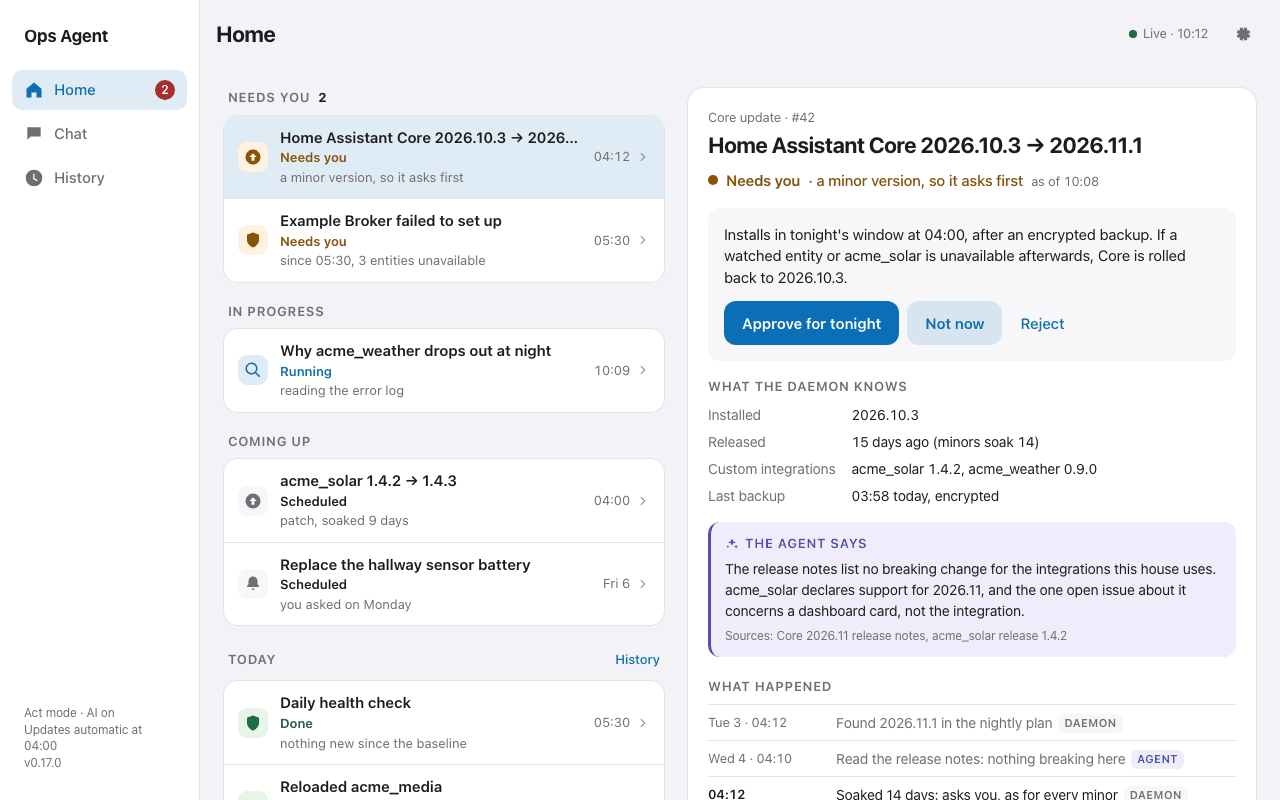
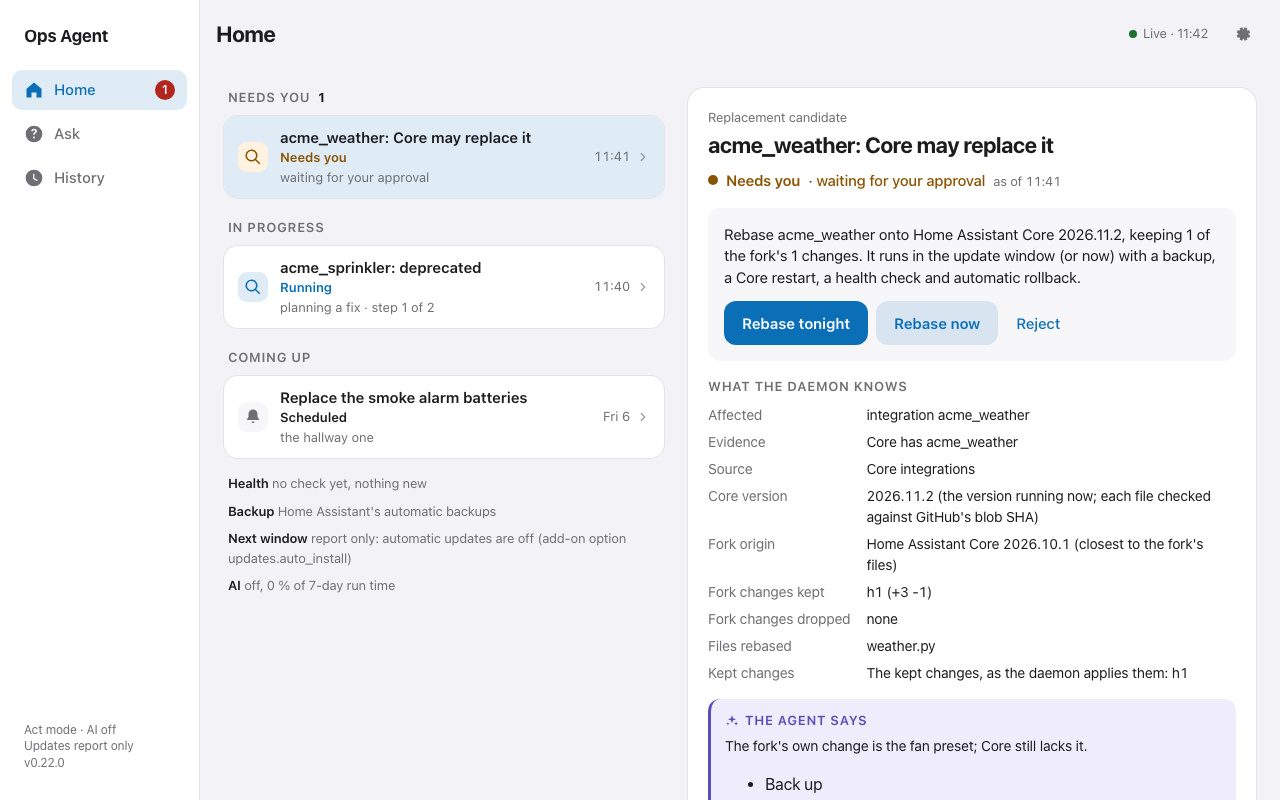
docs(readme): describe conversations on items and Ask
The README and the add-on's DOCS describe the conversation on every item and
Ask in place of the one chat, and the screenshots show the new layout with
sample data.

diff --git a/README.md b/README.md
@@ -2,11 +2,11 @@
 
 An unattended maintenance add-on for Home Assistant. It checks the system
 every day, tells you only when something changed, installs updates that have
-soaked with a backup, a health diff and rollback, and answers questions in
-one admin chat. It uses an AI model for the parts that need judgement and
+soaked with a backup, a health diff and rollback, and answers your questions
+on the item they are about. It uses an AI model for the parts that need judgement and
 plain, tested code for everything that acts.
 
-![The panel's Home page, with a Core update that needs approval selected](docs/images/panel-home.png)
+![The panel's Home page, with a finding whose planned fork rebase waits for approval selected](docs/images/panel-home.png)
 
 ## What it does
 
@@ -24,9 +24,12 @@ plain, tested code for everything that acts.
   backup made with your own automatic backup settings, with a health check
   before and after each one and a rollback if things got worse. Majors,
   HAOS, firmware and anything in your profile's fragile list ask you first.
-- **One chat.** Ask in the panel, or reply to a push. The chat can look
-  things up, set reminders, start a longer investigation and ask you to
-  approve an update. It never approves anything itself.
+- **Conversations on the item.** Every item has its own conversation: open
+  it and ask, or reply to its push, and the answer stays with the item. For
+  anything without an item, *Ask* starts a question, which becomes an item
+  of its own with its answer and follow-ups. The agent can look things up,
+  set reminders, start a longer investigation and ask you to approve an
+  update. It never approves anything itself.
 - **Approvals.** Anything that needs you appears under *Needs you* in the
   panel. An approval is bound to the exact action you were shown, is used
   once and expires.
@@ -61,12 +64,13 @@ plain, tested code for everything that acts.
   automatic rollback.
 
 Everything it does is an *item* on the panel's Home page, with its history.
-Every item has something you can do with it: at least *Ask the agent*,
-which opens the chat with that item attached, and for maintenance findings
-*Plan a fix*, *Remind me* and *Hide until it changes*. It pushes only when
+Every item has something you can do with it: at least its conversation
+(*Ask about this item*), and for maintenance findings *Plan a fix* (the plan
+runs on the finding itself and any change it proposes is approved there),
+*Remind me* and *Hide until it changes*. It pushes only when
 an item needs you, when Home Assistant is down, or when you asked for it.
 
-<img src="docs/images/panel-phone-dark.png" width="300" alt="The same Home page on a phone, in the dark theme.">
+<img src="docs/images/panel-phone-dark.png" width="300" alt="A question on a phone, in the dark theme: its answer and the box for a follow-up.">
 
 The screenshots show sample data.
 
@@ -76,8 +80,8 @@ Home Assistant OS (or Supervised) users who want routine maintenance done
 for them and are comfortable letting a background agent install patch
 updates, with a backup and rollback, under rules they can read. It suits a
 single administrator. If you prefer to install every update by hand, run it
-in `observe` mode: you get the health check, triage and chat, and it changes
-nothing.
+in `observe` mode: you get the health check, triage and conversations, and it
+changes nothing.
 
 ## Requirements
 

diff --git a/ha_ops_agent/DOCS.md b/ha_ops_agent/DOCS.md
@@ -2,7 +2,7 @@
 
 Unattended maintenance for Home Assistant: a daily health check, a push only
 when something changed, soaked updates with a backup, a health diff and
-rollback, and one admin chat.
+rollback, and a conversation with the agent on every item.
 
 Full documentation, the house profile format and the safety model:
 https://github.com/dipeshc/ha-ops-agent#readme
